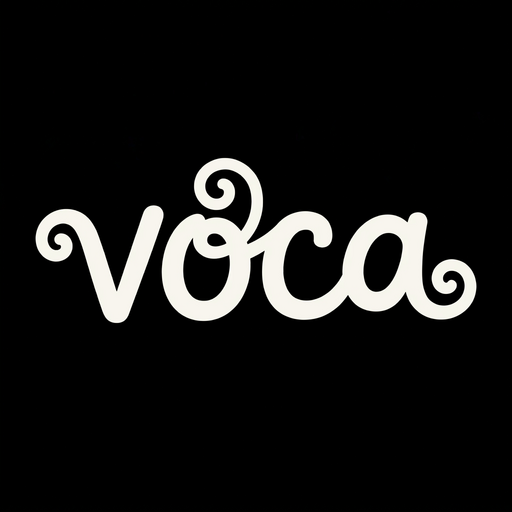
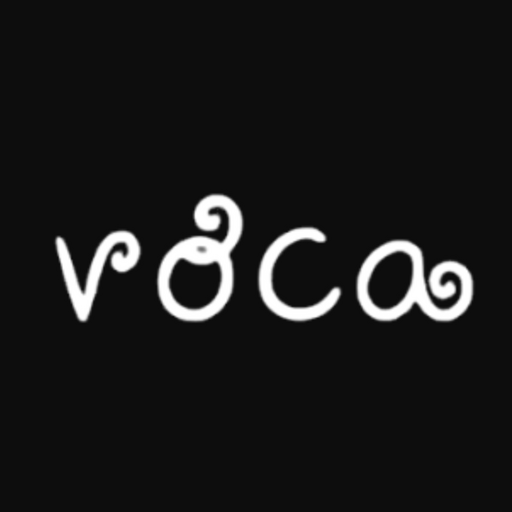
feat: 用原图 IMG_1519 作为站点与 Safari 图标
从 GitHub 上的原图缩放生成 favicon / Apple touch icon / 512 图标，
Safari 标签与主屏幕名称设为 Voca。

Changed region(s): [[0.0625, 0.3125, 0.9375, 0.6562]]

diff --git a/index.html b/index.html
@@ -4,14 +4,16 @@
     <meta charset="UTF-8" />
     <link rel="icon" href="/favicon.ico" sizes="any" />
     <link rel="icon" type="image/png" sizes="32x32" href="/favicon.png" />
-    <link rel="apple-touch-icon" href="/apple-touch-icon.png" />
+    <link rel="apple-touch-icon" sizes="180x180" href="/apple-touch-icon.png" />
     <link rel="manifest" href="/site.webmanifest" />
     <meta
       name="viewport"
       content="width=device-width, initial-scale=1.0, viewport-fit=cover"
     />
     <meta name="theme-color" content="#000000" />
+    <meta name="application-name" content="Voca" />
     <meta name="apple-mobile-web-app-capable" content="yes" />
+    <meta name="mobile-web-app-capable" content="yes" />
     <meta name="apple-mobile-web-app-title" content="Voca" />
     <meta name="apple-mobile-web-app-status-bar-style" content="black" />
     <meta name="description" content="Voca · 英语词汇学习" />
